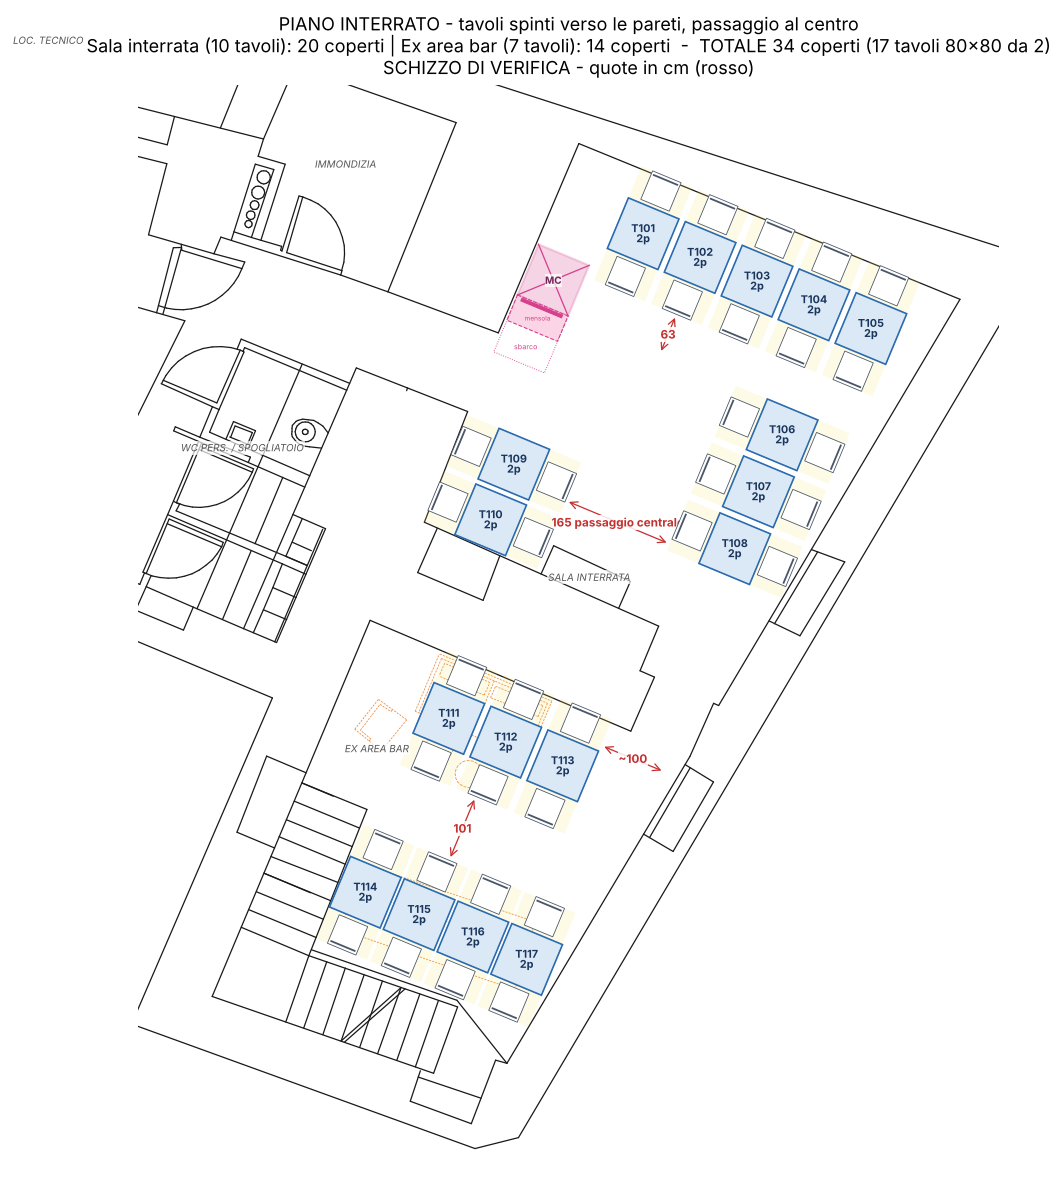
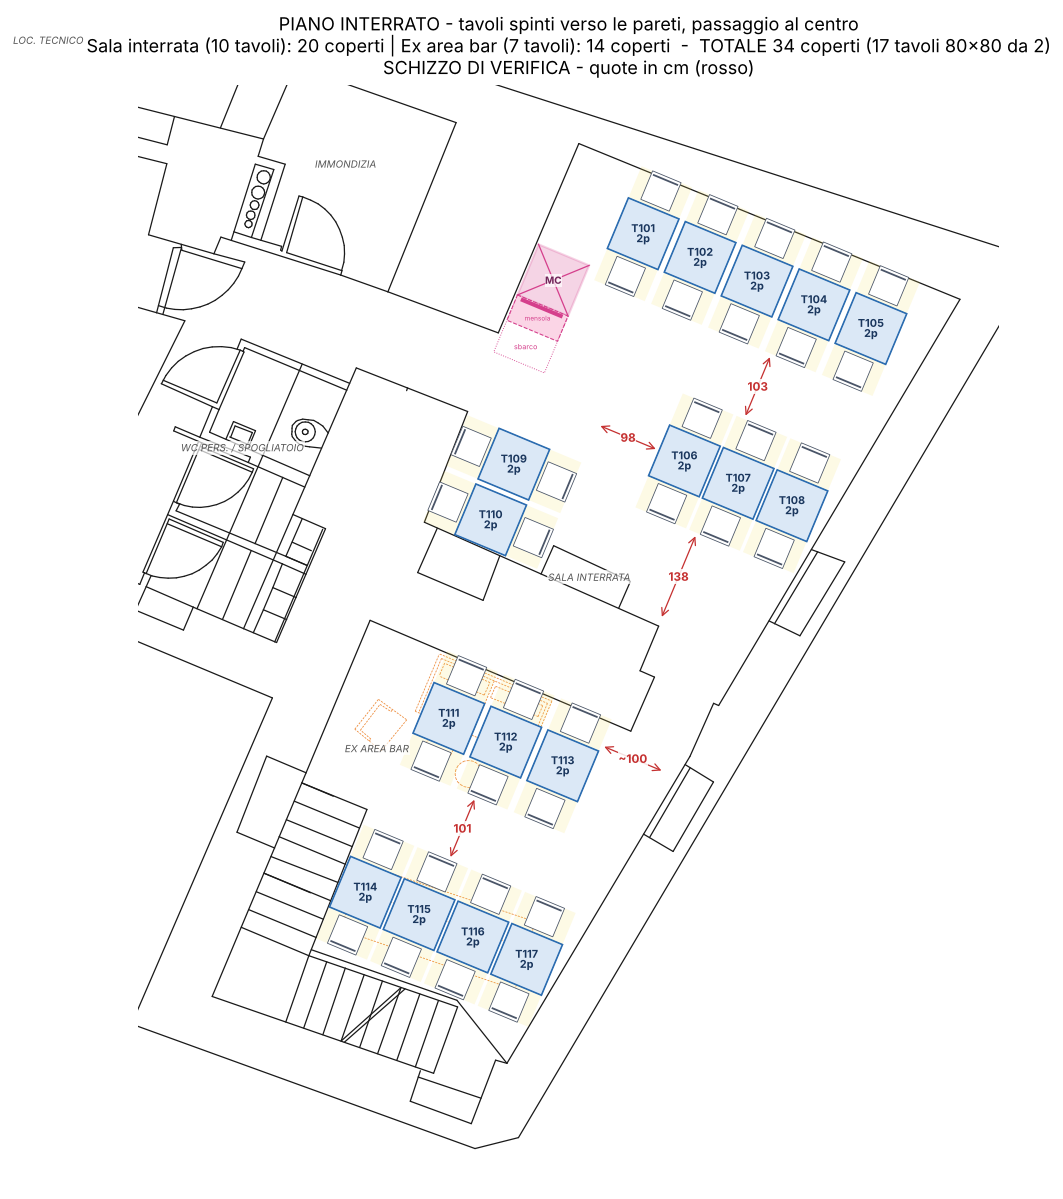
Schizzo interrato: T106-T108 in fila orizzontale
Claude-Session: https://claude.ai/code/session_01DzDrm9YL49zt6S6Nfpk9Ja

Changed region(s): [[0.5278, 0.3086, 0.8071, 0.4937]]

diff --git a/OUTPUT_RISTORANTE/scripts/s11_schizzo.py b/OUTPUT_RISTORANTE/scripts/s11_schizzo.py
@@ -28,7 +28,7 @@ PT = {'Sala davanti alla cucina (14 tavoli)': nord_1 + nord_2 + nord_3,
       "Sala dell'ingresso (5 tavoli)": ingr_3 + ingr_2}
 # ---------------- INTERRATO
 s_nord = row(2170, 7, 5, 10)            # fila contro muro nord
-s_fac = col(2470, 200, 3, 10)           # colonna lungo facciata (schienale verso facciata)
+s_fac = row(2353, 290, 3, 5)            # fila orizzontale verso la facciata (come le altre)
 s_ovest = col(2125, 390, 2, 8)          # colonna lungo parete ovest, a sud del varco personale
 b_nord = row(2180, 769, 3, 10)          # ex bar: fila contro il setto (schienale al setto)
 b_sud = row(2165, 1050, 4, 5)           # ex bar: fila verso la scala
@@ -63,8 +63,9 @@ sheet('terra', PT, [
     ((2450, 804), (2450, 827), '23'),                       # fila setto -> tavolo facciata
 ], 'PIANO TERRA - tutti tavoli da 2 leggermente distanziati (5-10 cm)', 'schizzo_PT.png', (1950, -80, 2720, 1340))
 sheet('int', S1, [
-    ((2300, 137), (2300, 200), '63'),
-    ((2255, 450), (2420, 450), '165 passaggio centrale'),
+    ((2450, 137), (2450, 240), '103'),
+    ((2255, 330), (2353, 330), '98'),
+    ((2450, 420), (2450, 558), '138'),
     ((2300, 899), (2300, 1000), '101'),
     ((2440, 760), (2541, 760), '~100'),
 ], "PIANO INTERRATO - tavoli spinti verso le pareti, passaggio al centro", 'schizzo_S1.png', (1950, -80, 2720, 1340))
